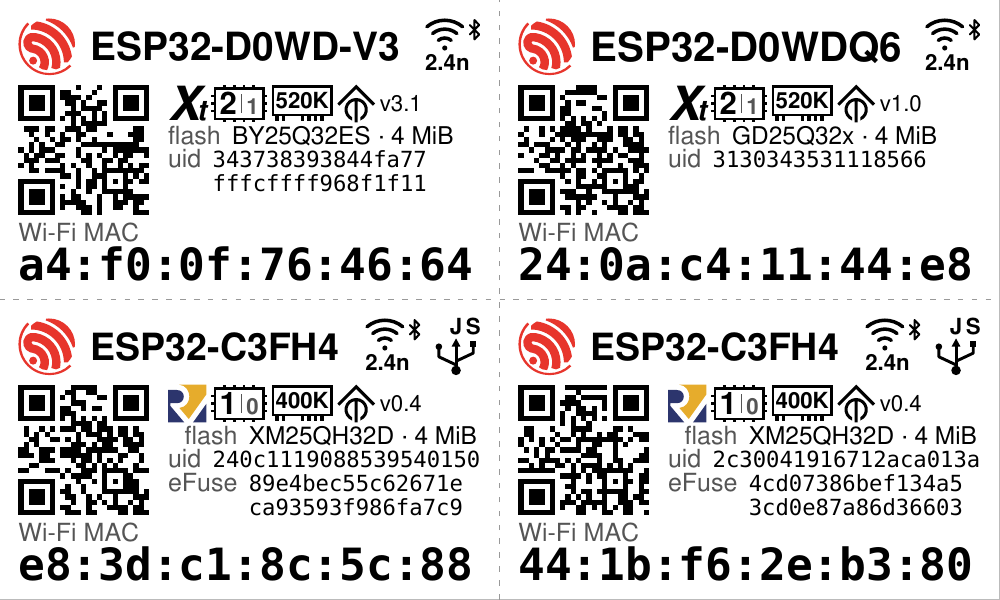
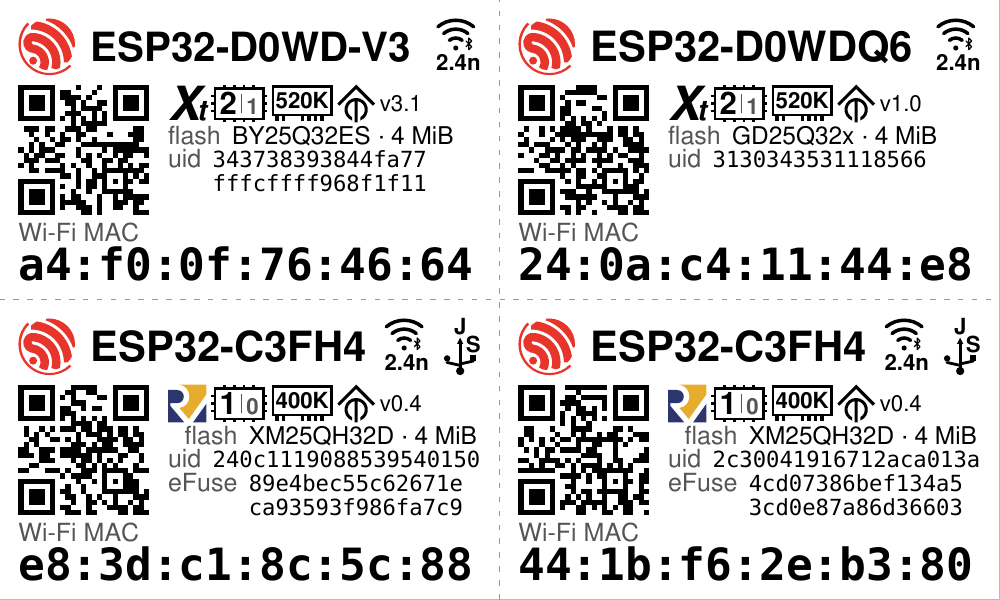
esp32_micro: Zigbee on the Wi-Fi glyph of a C5 or C6, full size on an H2
Claude-Session: https://claude.ai/code/session_01PBYpeR32kHxmN65GqkGhJx

diff --git a/src/rpi_hwid/esp32_micro.py b/src/rpi_hwid/esp32_micro.py
@@ -8,9 +8,10 @@ most Tasmota plugs. Every label has the same parts in the same places:
               (``rpi_hwid.espressif.part_for``: ESP32-C3FH4, ESP32-D0WD-V3,
               ESP8285N08), always whole; then glyphs for the chip's radios
               and USB -- Wi-Fi with its bands and newest 802.11 standard
-              and, small on it, Bluetooth; the USB trident lettered O
-              (OTG), J (JTAG), S (serial) for what the chip's own USB does;
-              an 802.15.4 mesh
+              and, small in the corners beside its dot, the Bluetooth rune
+              and the Zigbee mark (an 802.15.4 radio); the USB trident,
+              upright, a letter over each prong for what the chip's own
+              USB does: O (OTG), J (JTAG), S (serial)
   spec strip  what every chip of that part is, from the table: the ISA
               (the RISC-V mark, or the Xtensa "Xt" in the same box), the
               cores (two numbers: the application cores, then the
@@ -329,21 +330,22 @@ def radio_icons(fam: espressif.Family) -> tuple[Icon, ...]:
     """The header's glyphs: the radios the part has and its own USB.
 
     Wi-Fi with its bands and newest standard ("2.4 n", "2.4/5 ax"), and
-    Bluetooth small on it where the part has both; Bluetooth alone where
-    it has no Wi-Fi. Then the USB trident, lettered with what the chip's
-    own USB does (O OTG, J JTAG, S serial), and no wider than the Wi-Fi
-    glyph (Tim, 2026-09-29); none where the chip has no USB. Last the
-    802.15.4 mesh."""
+    riding on it, small in the corners beside its dot, the Bluetooth rune
+    and the Zigbee mark for an 802.15.4 radio (Tim, 2026-09-29). A part
+    without Wi-Fi (the H2) has them full size instead. Then the USB
+    trident, upright, a letter over each prong for what the chip's own
+    USB does (O OTG, J JTAG, S serial); none where the chip has no USB."""
     icons = []
     if fam.wifi:
         text = "/".join(fam.wifi_band_ghz) + " " + str(fam.wifi_newest)
-        icons.append(Icon("wifi", text + (" " + micro.WIFI_BT if fam.bluetooth else "")))
-    elif fam.bluetooth:
-        icons.append(Icon("bluetooth"))
+        text += " " + micro.WIFI_BT if fam.bluetooth else ""
+        text += " " + micro.WIFI_ZB if fam.ieee802154 else ""
+        icons.append(Icon("wifi", text))
+    else:
+        icons += [Icon("bluetooth")] if fam.bluetooth else []
+        icons += [Icon("zigbee")] if fam.ieee802154 else []
     if fam.usb_functions:
         icons.append(Icon("usb", "".join(USB_LETTER[f] for f in fam.usb_functions)))
-    if fam.ieee802154:
-        icons.append(Icon("mesh"))
     return tuple(icons)
 
 

diff --git a/tests/test_esp32_micro.py b/tests/test_esp32_micro.py
@@ -228,7 +228,7 @@ def test_an_h2_has_no_wifi_and_no_tasmota():
     lab = esp32_micro.sample_label(espressif.BY_NAME["ESP32-H2"])
     assert lab.ident_caption == "MAC"
     # no Wi-Fi to carry it: Bluetooth stands alone, full size
-    assert lab.icons == (Icon("bluetooth"), Icon("usb", "JS"), Icon("mesh"))
+    assert lab.icons == (Icon("bluetooth"), Icon("zigbee"), Icon("usb", "JS"))
     assert Icon("tasmota") not in lab.specs
 
 
@@ -409,8 +409,9 @@ def test_the_wifi_glyph_carries_each_family_s_bands_and_standards():
     got = {esp32_micro.sample_label(p).title: esp32_micro.radio_icons(p.family)[:1]
            for p in espressif.PARTS if not p.listed_only}
     assert got["ESP32-C3FH4"] == (Icon("wifi", "2.4 n +bt"),)
-    assert got["ESP32-C6"] == (Icon("wifi", "2.4 ax +bt"),)
-    assert got["ESP32-C5"] == (Icon("wifi", "2.4/5 ax +bt"),)
+    # an 802.15.4 radio's Zigbee mark rides on the Wi-Fi glyph too
+    assert got["ESP32-C6"] == (Icon("wifi", "2.4 ax +bt +zb"),)
+    assert got["ESP32-C5"] == (Icon("wifi", "2.4/5 ax +bt +zb"),)
     assert got["ESP32-S2"] == (Icon("wifi", "2.4 n"),)
     assert got["ESP32-H2"] == (Icon("bluetooth"),)
     assert got["ESP32-P4"] == (Icon("usb", "OJS"),)
@@ -430,19 +431,11 @@ def test_the_usb_glyph_letters_what_the_chip_s_own_usb_does(family, letters):
 
 @pytest.mark.parametrize("part", espressif.PARTS, ids=lambda p: p.part)
 def test_the_usb_glyph_is_no_larger_than_the_wifi_glyph(part):
-    """Tim, 2026-09-29: "no bigger than the wifi icon". The upright
-    trident is as high as the Wi-Fi glyph and no wider than one carrying
-    Bluetooth. The one exception is the S2's: it has no Bluetooth, and its
-    Wi-Fi glyph (2.8 mm) is narrower than three letters side by side at
-    4 pt (3.2 mm)."""
-    icons = {i.name: i for i in esp32_micro.radio_icons(part.family)}
-    if "usb" not in icons or "wifi" not in icons:
-        return
-    usb = micro._icon_width(None, icons["usb"])
-    widest = micro.wifi_width(micro.HEAD_H, "2.4 n +bt")
-    assert usb <= widest + 0.01
-    if micro.wifi_bluetooth(icons["wifi"].text)[1]:
-        assert usb <= micro._icon_width(None, icons["wifi"]) + 0.01
+    """Tim, 2026-09-29: "no bigger than the wifi icon": as high, and no
+    wider, on every part with both."""
+    icons = {i.name: micro._icon_width(None, i) for i in esp32_micro.radio_icons(part.family)}
+    if "usb" in icons and "wifi" in icons:
+        assert icons["usb"] <= icons["wifi"] + 0.01
 
 
 @pytest.mark.parametrize("part", espressif.PARTS, ids=lambda p: p.part)

diff --git a/docs/LABELS.md b/docs/LABELS.md
@@ -332,8 +332,10 @@ one it is. The strip's glyphs are registered like the header's:
 | `Icon("memory", "512K+8M")` | a memory module with its size lettered on it |
 | `Icon("tasmota")` | the Tasmota symbol, from the Tasmota repository |
 | `Icon("bluetooth")` | the Bluetooth rune |
-| `Icon("mesh")` | four linked nodes: an IEEE 802.15.4 (Thread, Zigbee) radio |
-| `Icon("wifi", "2.4/5 a/b/g/n/ac/ax")` | the Wi-Fi arcs with the band under them, the single-letter 802.11 standards beside them and the two-letter ones (ac, ax) beside the band, bold at 4 pt (a header glyph) |
+| `Icon("zigbee")` | the Zigbee mark, for an IEEE 802.15.4 radio |
+| `Icon("revision", "v0.4")` | a chip's revision, its text alone at 4 pt |
+| `Icon("wifi", "2.4/5 a/b/g/n/ac/ax")` | the Wi-Fi arcs with the band under them, the single-letter 802.11 standards beside them and the two-letter ones (ac, ax) beside the band, bold at 4 pt (a header glyph). With one standard (`"2.4 n"`) it is joined to the band, `2.4n`, and a trailing `+bt` or `+zb` draws the Bluetooth rune or the Zigbee mark small in the empty corner right or left of the arcs' dot, at no extra width |
+| `Icon("usb", "OJS")` | the USB trident upright with a letter over each prong for what the port does: J (JTAG) over the arrow on the top line, O (OTG) and S (serial) over the round and square prongs on the line under it; a prong with no function has no letter (a header glyph) |
 
 A strip too wide for the band is refused when the label is made.
 
@@ -378,19 +380,22 @@ the same places:
   printed whole: `ESP32-D0WD-V3`, or `ESP32-C3FH4`, where esptool names the
   die and the chip's eFuse the flash in its package (see
   [ESPRESSIF.md](ESPRESSIF.md#which-part-a-read-names)). Then the part's
-  radios: Wi-Fi with its bands and 802.11 standards (`2.4` and `b/g/n`;
-  `b/g/n` and `ax` on a C6; `2.4/5`, `a/b/g/n` and `ac/ax` on a C5),
-  Bluetooth, and the 802.15.4 mesh on a C5, C6 or H2.
+  radios and USB: Wi-Fi with its bands and newest 802.11 standard (`2.4n`;
+  `2.4ax` on a C6; `2.4/5ax` on a C5), with the Bluetooth rune and, on a C5
+  or C6, the Zigbee mark (its 802.15.4 radio) small in the corners beside
+  the arcs' dot; an H2, with no Wi-Fi, has both full size. Then the USB
+  trident, upright, lettered with what the chip's own USB does: `JS` on a
+  C3, C5, C6 or H2 (its USB Serial/JTAG controller), `O` on an S2, `OJS` on
+  an S3 or P4, none on an ESP8266, ESP32 or C2, whose port is a USB-UART
+  bridge's. It is never wider than the Wi-Fi glyph.
 - **Spec strip:** what every chip of that part is, from the table in
   `rpi_hwid.espressif` ([ESPRESSIF.md](ESPRESSIF.md), every value cited): the
   ISA (the RISC-V mark, or the Xtensa "Xt" in the same box), the cores as
   two numbers (the application cores, then the ULP or LP cores, small and
   grey: `2|1` on an ESP32, `1|0` on a C3, which has none), the on-chip SRAM with any PSRAM in the package (`512K+8M`),
-  and the Tasmota symbol where Tasmota ships a binary for the part.
+  the Tasmota symbol where Tasmota ships a binary for the part, and last
+  the chip's revision as read, bare (`v0.4`); an ESP8266 reports none.
 - **Rows,** read from this chip, always in this order:
-  - `chip`: the silicon revision, at 4 pt. An ESP8266 reports none, so its
-    row's place is left blank. The crystal is read and kept in the document,
-    but not printed.
   - `flash`: the flash's part where the read settles it (`GD25Q32x`,
     `XM25QH32D`, or `BY25Q32ES` where a Boya's 128-bit unique id tells it
     from the 64-bit BS); then its size. A flash whose JEDEC id names no
@@ -411,9 +416,10 @@ the same places:
   flash gives none prints its eFuse id alone. The uid and eFuse rows print
   at one size, 4 pt, on every label. A uid row's digits start right of its
   own short caption rather than in the column beside `eFuse`: 20 digits do
-  not fit that column at the 4 pt the labels go down to. To hold a C3's
-  three rows of serials, the rows under the spec strip are five, one step
-  tighter than the four they were.
+  not fit that column at the 4 pt the labels go down to. The rows under
+  the spec strip are five, one step tighter than the four beside a
+  subtitle: room for a 128-bit flash uid and an eFuse id, two rows each.
+  The crystal is read and kept in the document, but not printed.
 
   **Trimming.** A flash reads out a fixed 128 bits whatever its maker
   programmed, and an unprogrammed byte reads `ff`. The C3s' XM25QH32D gives
